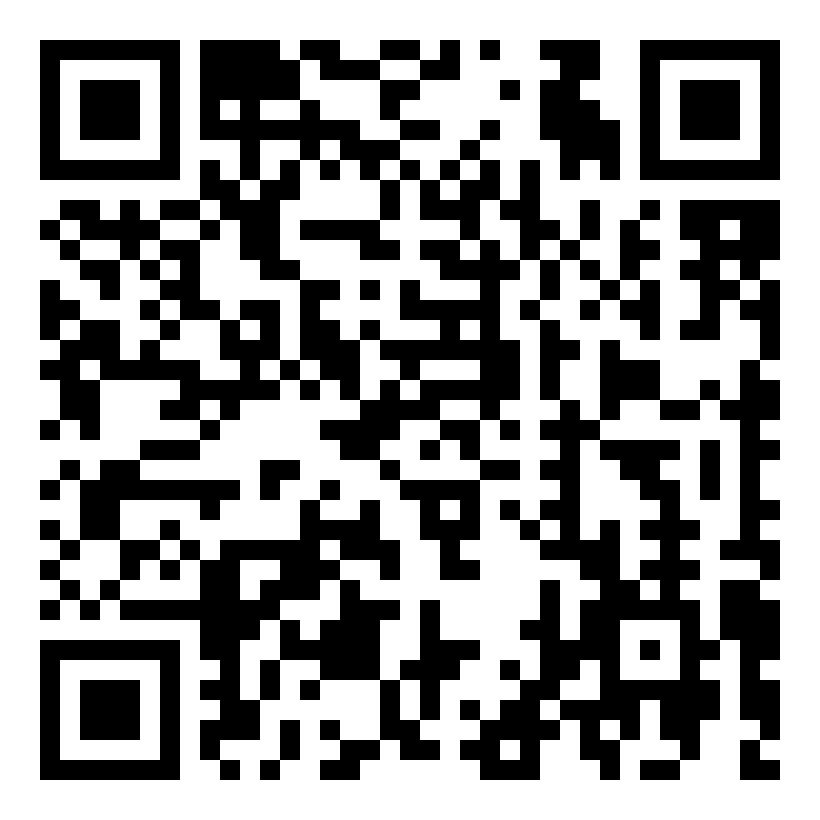
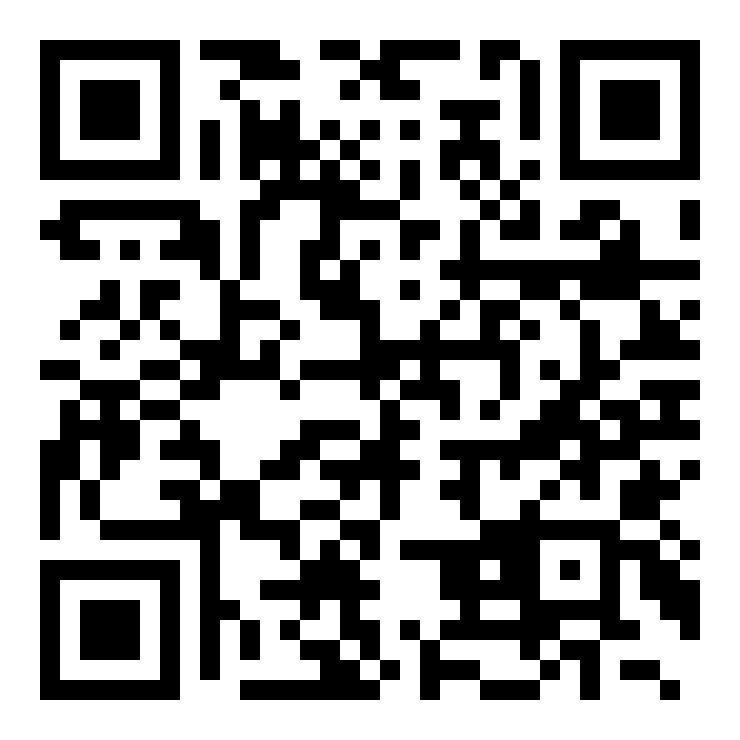
feat: image options and draw

diff --git a/image.go b/image.go
@@ -11,8 +11,7 @@ import (
 	"github.com/yeqown/go-qrcode/matrix"
 )
 
-/* Draw image with matrix
- */
+// Draw image with matrix
 
 var (
 	defaultExpandPixel = 20
@@ -23,7 +22,7 @@ var (
 //// SetExpandPixel set defaultExpandPixel, default is 40
 //func SetExpandPixel(n int) {
 //	if n < 0 {
-//		panic("could not set the negative interger")
+//		panic("could not set the negative integer")
 //	}
 //	defaultExpandPixel = n
 //}
@@ -41,39 +40,39 @@ func drawAndSaveToFile(name string, m matrix.Matrix) error {
 
 // drawAndSave save image into io.Writer
 func drawAndSave(w io.Writer, m matrix.Matrix) error {
-	img := draw(m)
+	img := draw(m, _defaultOutputOption)
 	return save(w, img)
 }
 
-func draw(mat matrix.Matrix) image.Image {
+// draw deal qrcode matrix as a image.Image
+func draw(mat matrix.Matrix, opt *outputImageOptions) image.Image {
+	_stateToRGBA[matrix.StateFalse] = opt.backgroundColor
+	_stateToRGBA[matrix.StateTrue] = opt.qrColor
+
 	// w as image width, h as image height
 	w := mat.Width()*defaultExpandPixel + 2*padding
 	h := w
 
-	// draw into image
-	var (
-		gray16 = image.NewGray16(image.Rect(0, 0, w, h))
-	)
-
+	rgba := image.NewRGBA(image.Rect(0, 0, w, h))
 	// top-bottom padding
 	for posX := 0; posX < w; posX++ {
 		for posY := 0; posY < padding; posY++ {
-			gray16.SetGray16(posX, posY, color.White)
+			rgba.Set(posX, posY, opt.backgroundColor)
 		}
 
 		for posY := h - padding; posY < h; posY++ {
-			gray16.SetGray16(posX, posY, color.White)
+			rgba.Set(posX, posY, opt.backgroundColor)
 		}
 	}
 
 	// left-right padding
 	for posY := padding; posY < h-padding; posY++ {
 		for posX := 0; posX < padding; posX++ {
-			gray16.SetGray16(posX, posY, color.White)
+			rgba.Set(posX, posY, opt.backgroundColor)
 		}
 
 		for posX := w - padding; posX < w; posX++ {
-			gray16.SetGray16(posX, posY, color.White)
+			rgba.Set(posX, posY, opt.backgroundColor)
 		}
 	}
 
@@ -87,17 +86,13 @@ func draw(mat matrix.Matrix) image.Image {
 		// true for black, false for white
 		for posX := xStart; posX < xEnd; posX++ {
 			for posY := yStart; posY < yEnd; posY++ {
-				// block border
-				// if posX == xStart || posY == yStart {
-				// 	gray16.SetGray16(posX, posY, matrix.LoadGray16(matrix.BORDER))
-				// 	continue
-				// }
-				gray16.SetGray16(posX, posY, matrix.LoadGray16(v))
+				rgba.Set(posX, posY, stateRGBA(v))
 			}
 		}
 	})
 
-	return gray16
+	// TODO: add icon image
+	return rgba
 }
 
 // save to file
@@ -107,4 +102,56 @@ func save(w io.Writer, img image.Image) error {
 	}
 
 	return nil
+}
+
+var (
+	// _stateToRGBA state map tp color.Gray16
+	_stateToRGBA = map[matrix.State]color.Color{
+		matrix.StateFalse: hexToRGBA("#1aa6b7"),
+		matrix.StateTrue:  hexToRGBA("#01c5c4"),
+		//matrix.StateInit:  hexToRGBA("#1aa6b7"),
+		//matrix.StateVersion: hexToRGBA("#444444"),
+		// matrix.StateFormat:  hexToRGBA("#555555"),
+	}
+
+	// _defaultStateColor default color of undefined matrix.State
+	// it shouldn't be used.
+	_defaultStateColor = hexToRGBA("#ff414d")
+)
+
+func hexToRGBA(s string) color.RGBA {
+	c := color.RGBA{
+		R: 0,
+		G: 0,
+		B: 0,
+		A: 0xff,
+	}
+
+	var err error
+	switch len(s) {
+	case 7:
+		_, err = fmt.Sscanf(s, "#%02x%02x%02x", &c.R, &c.G, &c.B)
+	case 4:
+		_, err = fmt.Sscanf(s, "#%1x%1x%1x", &c.R, &c.G, &c.B)
+		// Double the hex digits:
+		c.R *= 17
+		c.G *= 17
+		c.B *= 17
+	default:
+		err = fmt.Errorf("invalid length, must be 7 or 4")
+	}
+	if err != nil {
+		panic(err)
+	}
+
+	return c
+}
+
+// stateRGBA get color.Color by value State
+func stateRGBA(v matrix.State) color.Color {
+	if v, ok := _stateToRGBA[v]; ok {
+		return v
+	}
+
+	return _defaultStateColor
 }

diff --git a/image_option.go b/image_option.go
@@ -1,0 +1,89 @@
+package qrcode
+
+import (
+	"image"
+	"image/color"
+)
+
+// _defaultOutputOption default output image background color and etc options
+var _defaultOutputOption = &outputImageOptions{
+	backgroundColor: color.White, // white
+	qrColor:         color.Black, // black
+	logoImage:       nil,
+}
+
+// outputImageOptions to output QR code image
+type outputImageOptions struct {
+	// backgroundColor
+	backgroundColor color.Color
+
+	// qrColor
+	qrColor color.Color
+
+	// logoImage this icon image would be put the center of QR Code image
+	logoImage image.Image
+}
+
+type ImageOption interface {
+	apply(o *outputImageOptions)
+}
+
+// funcOption wraps a function that modifies outputImageOptions into an
+// implementation of the ImageOption interface.
+type funcOption struct {
+	f func(oo *outputImageOptions)
+}
+
+func (fo *funcOption) apply(oo *outputImageOptions) {
+	fo.f(oo)
+}
+
+func newFuncDialOption(f func(oo *outputImageOptions)) *funcOption {
+	return &funcOption{
+		f: f,
+	}
+}
+
+// WithBgColor .
+func WithBgColor(c color.Color) ImageOption {
+	return newFuncDialOption(func(oo *outputImageOptions) {
+		oo.backgroundColor = c
+	})
+}
+
+// WithBgColorRGBHex .
+func WithBgColorRGBHex(hex string) ImageOption {
+	return newFuncDialOption(func(oo *outputImageOptions) {
+		oo.backgroundColor = hexToRGBA(hex)
+	})
+}
+
+// WithFgColor .
+func WithFgColor(c color.Color) ImageOption {
+	return newFuncDialOption(func(oo *outputImageOptions) {
+		oo.qrColor = c
+	})
+}
+
+// WithFgColorRGBHex "#123123"
+func WithFgColorRGBHex(hex string) ImageOption {
+	return newFuncDialOption(func(oo *outputImageOptions) {
+		oo.qrColor = hexToRGBA(hex)
+	})
+}
+
+// WithLogoImage .
+func WithLogoImage(img image.Image) ImageOption {
+	return newFuncDialOption(func(oo *outputImageOptions) {
+		oo.logoImage = img
+	})
+}
+
+// WithLogoImageFile .
+// TODO: load image from file, PNG is required
+func WithLogoImageFile(f string) ImageOption {
+	return newFuncDialOption(func(oo *outputImageOptions) {
+		var img image.Image
+		oo.logoImage = img
+	})
+}

diff --git a/matrix/matrix.go b/matrix/matrix.go
@@ -3,7 +3,6 @@ package matrix
 import (
 	"errors"
 	"fmt"
-	"image/color"
 )
 
 // ScanDirection scan matrix driection
@@ -37,29 +36,12 @@ const (
 	// StateVersion 0x4444
 	StateVersion State = 0x4444
 
-	// StateFormat 0x7777 for presisted state
+	// StateFormat 0x7777 for persisted state
 	StateFormat State = 0x7777
 )
 
 func (s State) String() string {
 	return fmt.Sprintf("0x%X", uint16(s))
-}
-
-// LoadGray16 load color by value State
-func LoadGray16(v State) color.Gray16 {
-	switch v {
-	case StateFalse:
-		return colorMap[StateFalse]
-	case StateTrue:
-		return colorMap[StateTrue]
-	case StateInit:
-		return colorMap[StateInit]
-	case StateVersion:
-		return colorMap[StateVersion]
-	case StateFormat:
-		return colorMap[StateFormat]
-	}
-	return color.Gray16{Y: uint16(v)}
 }
 
 var (
@@ -68,15 +50,6 @@ var (
 
 	// ErrorOutRangeOfH y out of range of Height
 	ErrorOutRangeOfH = errors.New("out of range of height")
-
-	// colorMap state map tp color.Gray16
-	colorMap = map[State]color.Gray16{
-		StateFalse:   color.Gray16{Y: uint16(StateFalse)},
-		StateTrue:    color.Gray16{Y: uint16(StateTrue)},
-		StateInit:    color.Gray16{Y: uint16(StateInit)},
-		StateVersion: color.Gray16{Y: uint16(StateVersion)},
-		StateFormat:  color.Gray16{Y: uint16(StateFormat)},
-	}
 )
 
 func StateSliceMatched(ss1, ss2 []State) bool {

diff --git a/qrcode.go b/qrcode.go
@@ -596,7 +596,7 @@ func (q *QRCode) SaveTo(w io.Writer) error {
 	return drawAndSave(w, *q.mat)
 }
 
-// draw ... draw with bitset
+// draw ... with bitset
 func (q *QRCode) draw() {
 
 	type sc struct {
